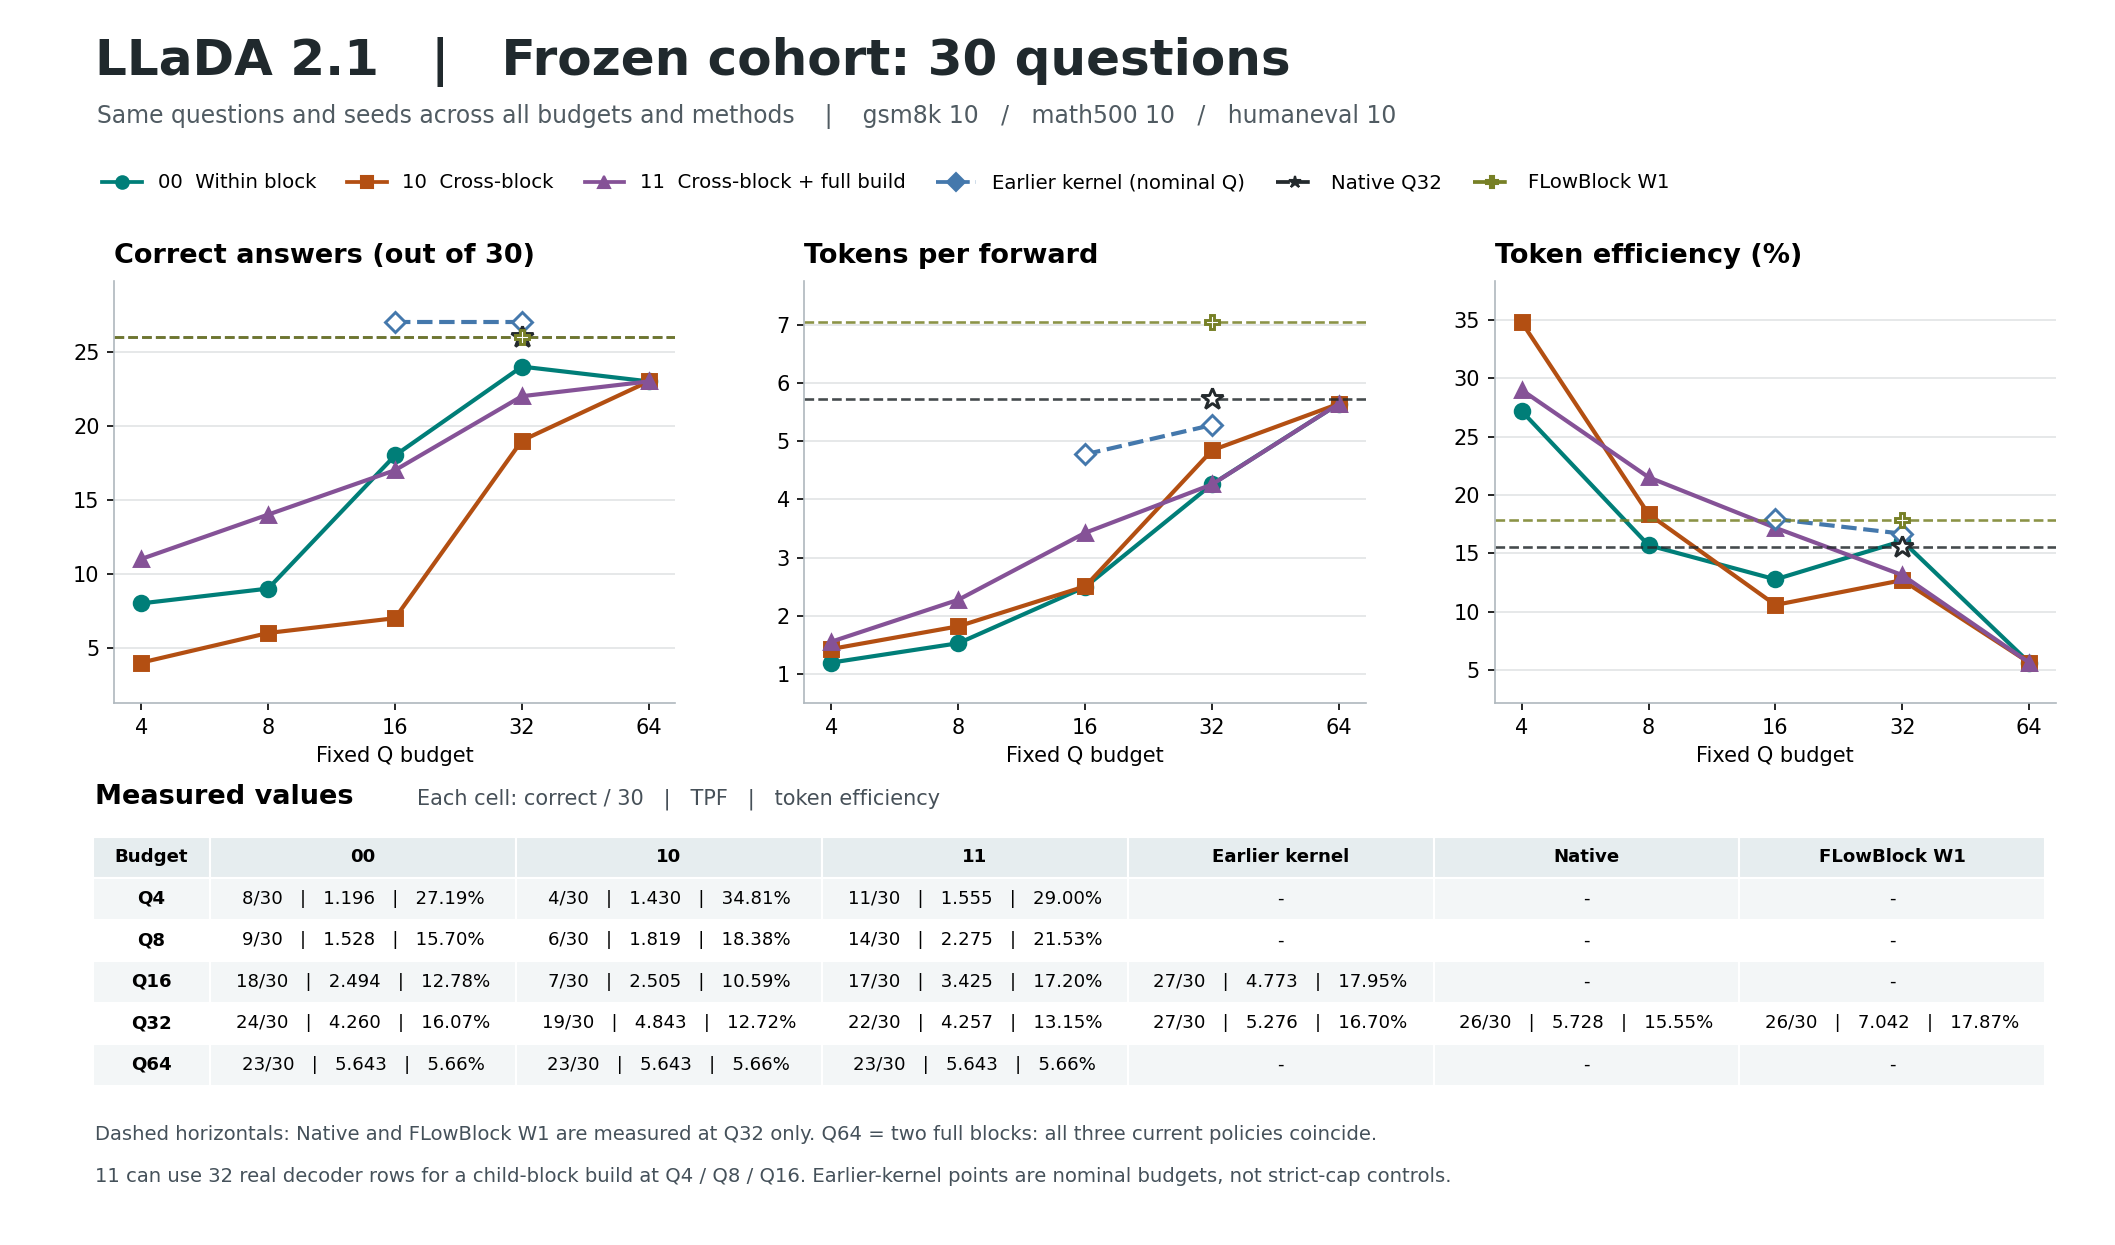
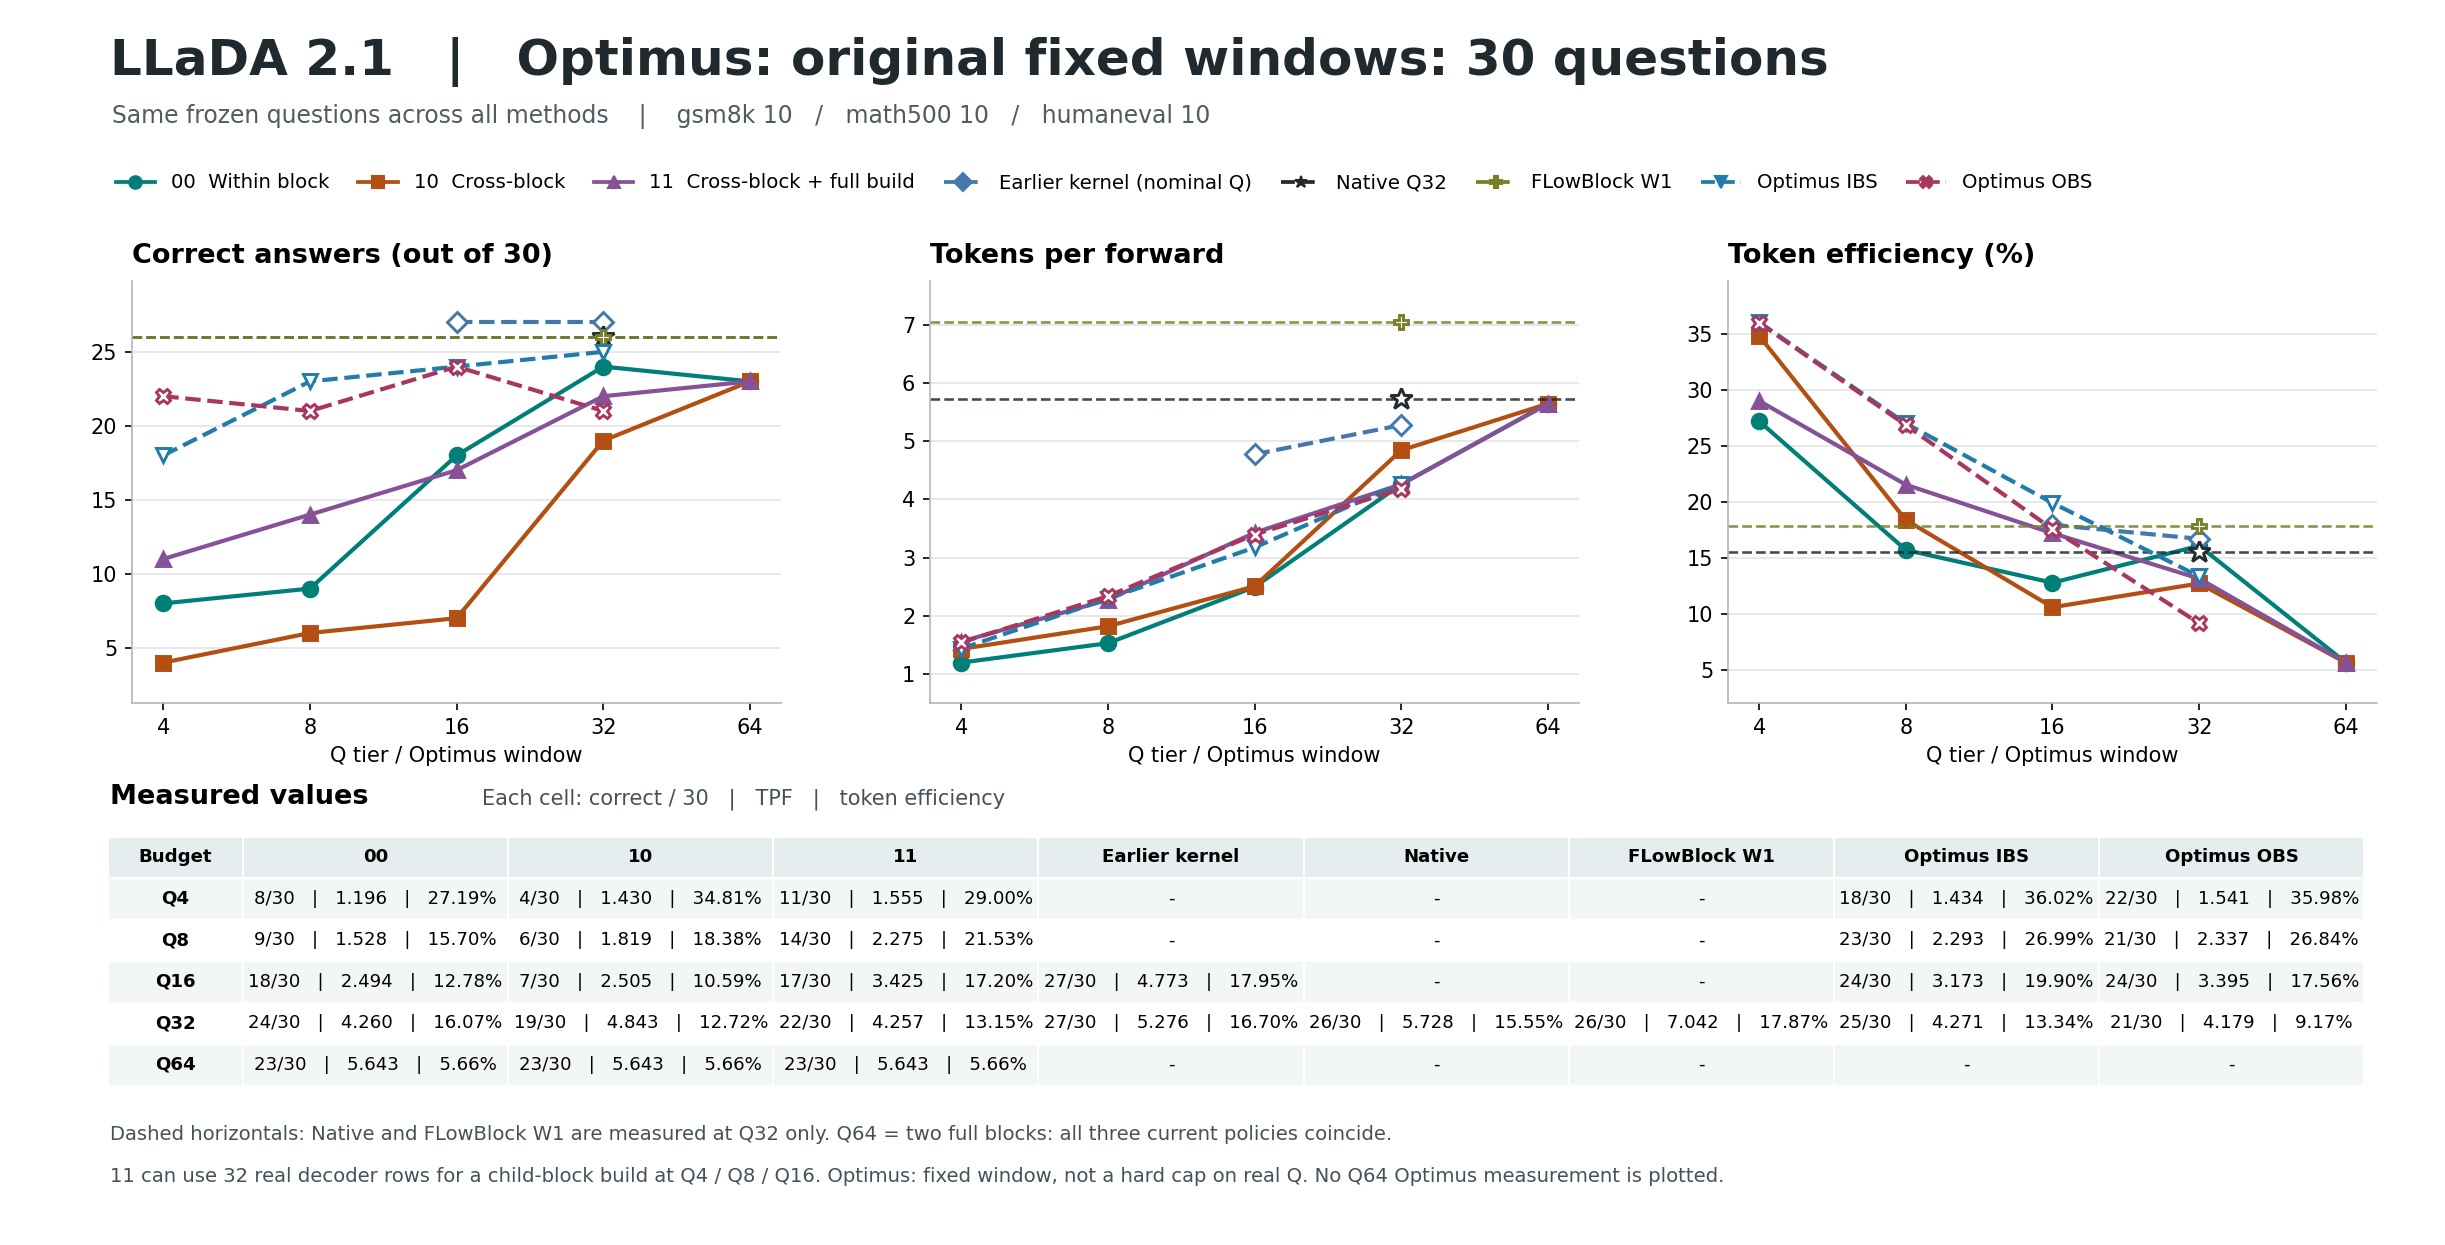
Show both Optimus modes on the LLaDA original-30 comparison

diff --git a/experiments/t2t/serving_slots/plot_llada_ablation_snapshot.py b/experiments/t2t/serving_slots/plot_llada_ablation_snapshot.py
@@ -6,6 +6,7 @@ import gzip
 import json
 from pathlib import Path
 from statistics import mean
+from math import isclose
 
 
 HERE = Path(__file__).resolve().parent
@@ -78,7 +79,37 @@ def extract(study, dest):
     print("snapshot cases", len(inventory), "common questions", len(ids), flush=True)
 
 
-def render(path, out):
+def optimus30(capped):
+    if capped:
+        filename = HERE/"controls/fixed-family-references.csv"
+    else:
+        filename = HERE.parents[1]/"baselines/summary.csv"
+    points = {}
+    with filename.open(newline="") as f:
+        for r in csv.DictReader(f):
+            if r["model"] != "llada21" or int(r["requests"]) != 30:
+                continue
+            if capped:
+                if r["cohort"] != "original-0-29" or r["method"] not in ("ibs","obs"):
+                    continue
+                m, q = r["method"], int(r["budget"])
+                tpf, eff = float(r["macro_TPF"]), float(r["efficiency"])
+                assert int(r["max_decoder_Q"]) <= q
+            else:
+                if (r["run"],r["role"],r["dataset"]) != ("baselines","baseline","all"):
+                    continue
+                m, _, q = r["policy"].partition("_")
+                if m not in ("ibs","obs"):
+                    continue
+                q = int(q)
+                tpf, eff = float(r["tpf"]), float(r["physical_efficiency"])
+            assert (m,q) not in points and isclose(eff,int(r["N"])/int(r["Q"]))
+            points[m,q] = dict(correct=int(r["correct"]), macro_tpf=tpf, eff_pct=100*eff)
+    assert set(points) == {(m,q) for m in ("ibs","obs") for q in TIERS[:-1]}
+    return points
+
+
+def render(path, out, only30=False):
     import matplotlib
     matplotlib.use("Agg")
     import matplotlib.pyplot as plt
@@ -86,25 +117,32 @@ def render(path, out):
     from matplotlib.ticker import MaxNLocator
     with path.open(newline="") as f:
         all_rows = list(csv.DictReader(f))
-    for cohort in ("matched", "original30"):
+    for cohort,capped in (([] if only30 else [("matched",False)]) + [("original30",False),("original30",True)]):
         rows = [r for r in all_rows if r["cohort"] == cohort]
         data = {(r["method"],int(r["q"])):r for r in rows}
         n = int(rows[0]["n"])
-        fig = plt.figure(figsize=(14.1,8.3), facecolor="white")
+        is30 = cohort=="original30"
+        styles = dict(STYLE)
+        if is30:
+            data.update(optimus30(capped))
+            styles.update(ibs=("#227ca9","v","--","Optimus IBS"), obs=("#a83760","X","--","Optimus OBS"))
+        fig = plt.figure(figsize=(16.3 if is30 else 14.1,8.3), facecolor="white")
         top = fig.add_gridspec(1,3,left=.054,right=.972,top=.774,bottom=.435,wspace=.23)
-        title = "Matched snapshot" if cohort == "matched" and n != 90 else "Frozen cohort"
+        title = ("Optimus: hard decoder-Q cap" if capped else "Optimus: original fixed windows") if is30 else (
+                 "Matched snapshot" if cohort == "matched" and n != 90 else "Frozen cohort")
         fig.text(.045,.94,f"LLaDA 2.1   |   {title}: {n} questions",fontsize=24,weight="bold",color="#20292d")
         counts = "   /   ".join(k+" "+rows[0][k] for k in ("gsm8k","math500","humaneval"))
-        fig.text(.046,.901,f"Same questions and seeds across all budgets and methods    |    {counts}",
+        paired = "Same frozen questions across all methods" if is30 else "Same questions and seeds across all budgets and methods"
+        fig.text(.046,.901,f"{paired}    |    {counts}",
                  fontsize=11.3,color="#505b62")
         handles = [Line2D([],[],color=c,marker=mk,ls=ls,lw=1.8,label=label)
-                   for c,mk,ls,label in STYLE.values()]
-        fig.legend(handles=handles,ncol=6,loc="upper left",bbox_to_anchor=(.04,.875),
-                   frameon=False,fontsize=9.5,columnspacing=1.55)
+                   for c,mk,ls,label in styles.values()]
+        fig.legend(handles=handles,ncol=len(styles),loc="upper left",bbox_to_anchor=(.04,.875),
+                   frameon=False,fontsize=9.5,columnspacing=1.45)
         for j,(field,heading) in enumerate((("correct",f"Correct answers (out of {n})"),
                                             ("macro_tpf","Tokens per forward"),("eff_pct","Token efficiency (%)"))):
             ax = fig.add_subplot(top[0,j])
-            for m,(color,mk,ls,_) in STYLE.items():
+            for m,(color,mk,ls,_) in styles.items():
                 xs = sorted(q for method,q in data if method==m)
                 ys = [float(data[m,q][field]) for q in xs]
                 if m in ("native","flow"):
@@ -114,7 +152,7 @@ def render(path, out):
             ax.set_xscale("log",base=2)
             ax.set_xlim(3.45,74)
             ax.set_xticks(TIERS,labels=[str(t) for t in TIERS])
-            ax.set_xlabel("Fixed Q budget")
+            ax.set_xlabel("Q tier / Optimus window" if is30 and not capped else "Fixed Q budget")
             ax.set_title(heading,loc="left",weight="bold",fontsize=13,pad=9)
             ax.grid(axis="y",color="#e1e4e5",lw=.8)
             ax.set_axisbelow(True)
@@ -125,11 +163,12 @@ def render(path, out):
         fig.text(.045,.354,"Measured values",weight="bold",fontsize=13)
         fig.text(.197,.354,f"Each cell: correct / {n}   |   TPF   |   token efficiency",fontsize=10,color="#465058")
         fmt = lambda r: f"{r['correct']}/{n}   |   {float(r['macro_tpf']):.3f}   |   {float(r['eff_pct']):.2f}%"
-        cells = [[f"Q{q}"]+[fmt(data[m,q]) if (m,q) in data else "-" for m in STYLE] for q in TIERS]
+        cells = [[f"Q{q}"]+[fmt(data[m,q]) if (m,q) in data else "-" for m in styles] for q in TIERS]
         ax=fig.add_axes([.044,.128,.923,.20])
         ax.axis("off")
-        tab=ax.table(cellText=cells,colLabels=["Budget","00","10","11","Earlier kernel","Native","FLowBlock W1"],
-                     colWidths=[.06]+[.1567]*6,cellLoc="center",bbox=[0,0,1,1])
+        names = ["Budget","00","10","11","Earlier kernel","Native","FLowBlock W1"] + (["Optimus IBS","Optimus OBS"] if is30 else [])
+        tab=ax.table(cellText=cells,colLabels=names,
+                     colWidths=[.06]+[.94/len(styles)]*len(styles),cellLoc="center",bbox=[0,0,1,1])
         tab.auto_set_font_size(False)
         tab.set_fontsize(8.7)
         for (i,j),cell in tab.get_celld().items():
@@ -138,10 +177,11 @@ def render(path, out):
             if i==0 or j==0:cell.get_text().set_weight("bold")
         fig.text(.045,.084,"Dashed horizontals: Native and FLowBlock W1 are measured at Q32 only. "
                  "Q64 = two full blocks: all three current policies coincide.",fontsize=9.4,color="#45515a")
+        note = ("Optimus: strict cap on real decoder Q." if capped else "Optimus: fixed window, not a hard cap on real Q.") if is30 else "Earlier-kernel points are nominal budgets, not strict-cap controls."
         fig.text(.045,.051,"11 can use 32 real decoder rows for a child-block build at Q4 / Q8 / Q16. "
-                 "Earlier-kernel points are nominal budgets, not strict-cap controls.",fontsize=9.4,color="#45515a")
+                 + note + (" No Q64 Optimus measurement is plotted." if is30 else ""),fontsize=9.4,color="#45515a")
         out.mkdir(parents=True,exist_ok=True)
-        fig.savefig(out/f"llada21-fixed-q-{cohort}{n if cohort=='matched' else ''}.png",dpi=150)
+        fig.savefig(out/f"llada21-fixed-q-{cohort}{n if cohort=='matched' else ''}{'-capped' if capped else ''}.png",dpi=150)
         plt.close(fig)
 
 
@@ -150,6 +190,7 @@ if __name__ == "__main__":
     p.add_argument("--study",type=Path,help="Optional: read GPU receipts to update CSV")
     p.add_argument("--csv",type=Path,required=True)
     p.add_argument("--out",type=Path,default=HERE/"figures")
+    p.add_argument("--only30",action="store_true",help="Redraw only the original-30 Optimus comparisons")
     args=p.parse_args()
     if args.study: extract(args.study,args.csv)
-    render(args.csv,args.out)
+    render(args.csv,args.out,only30=args.only30)
